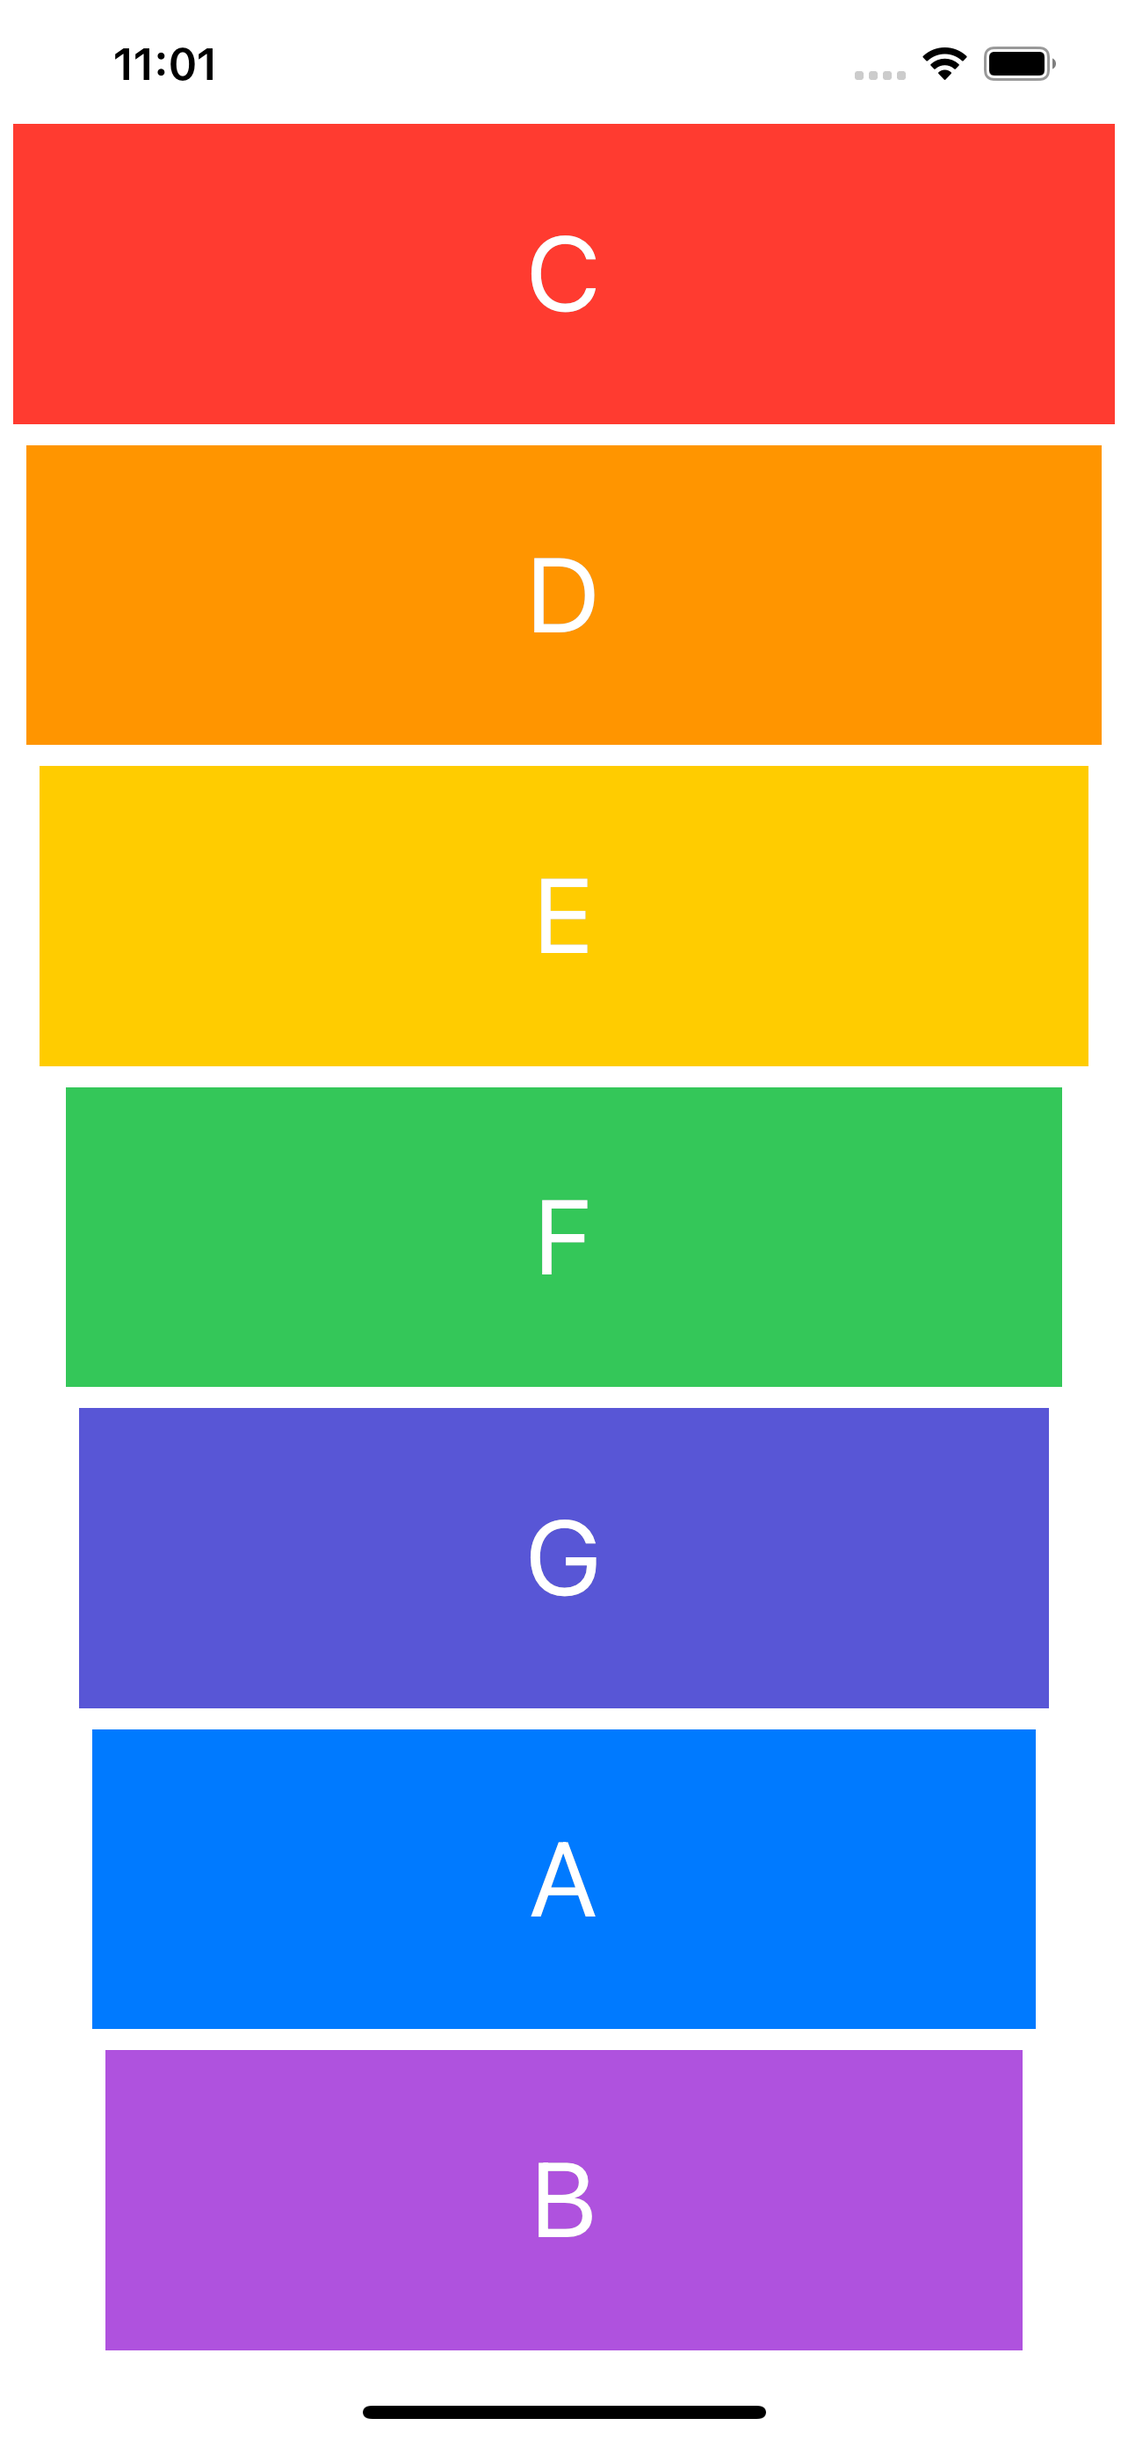
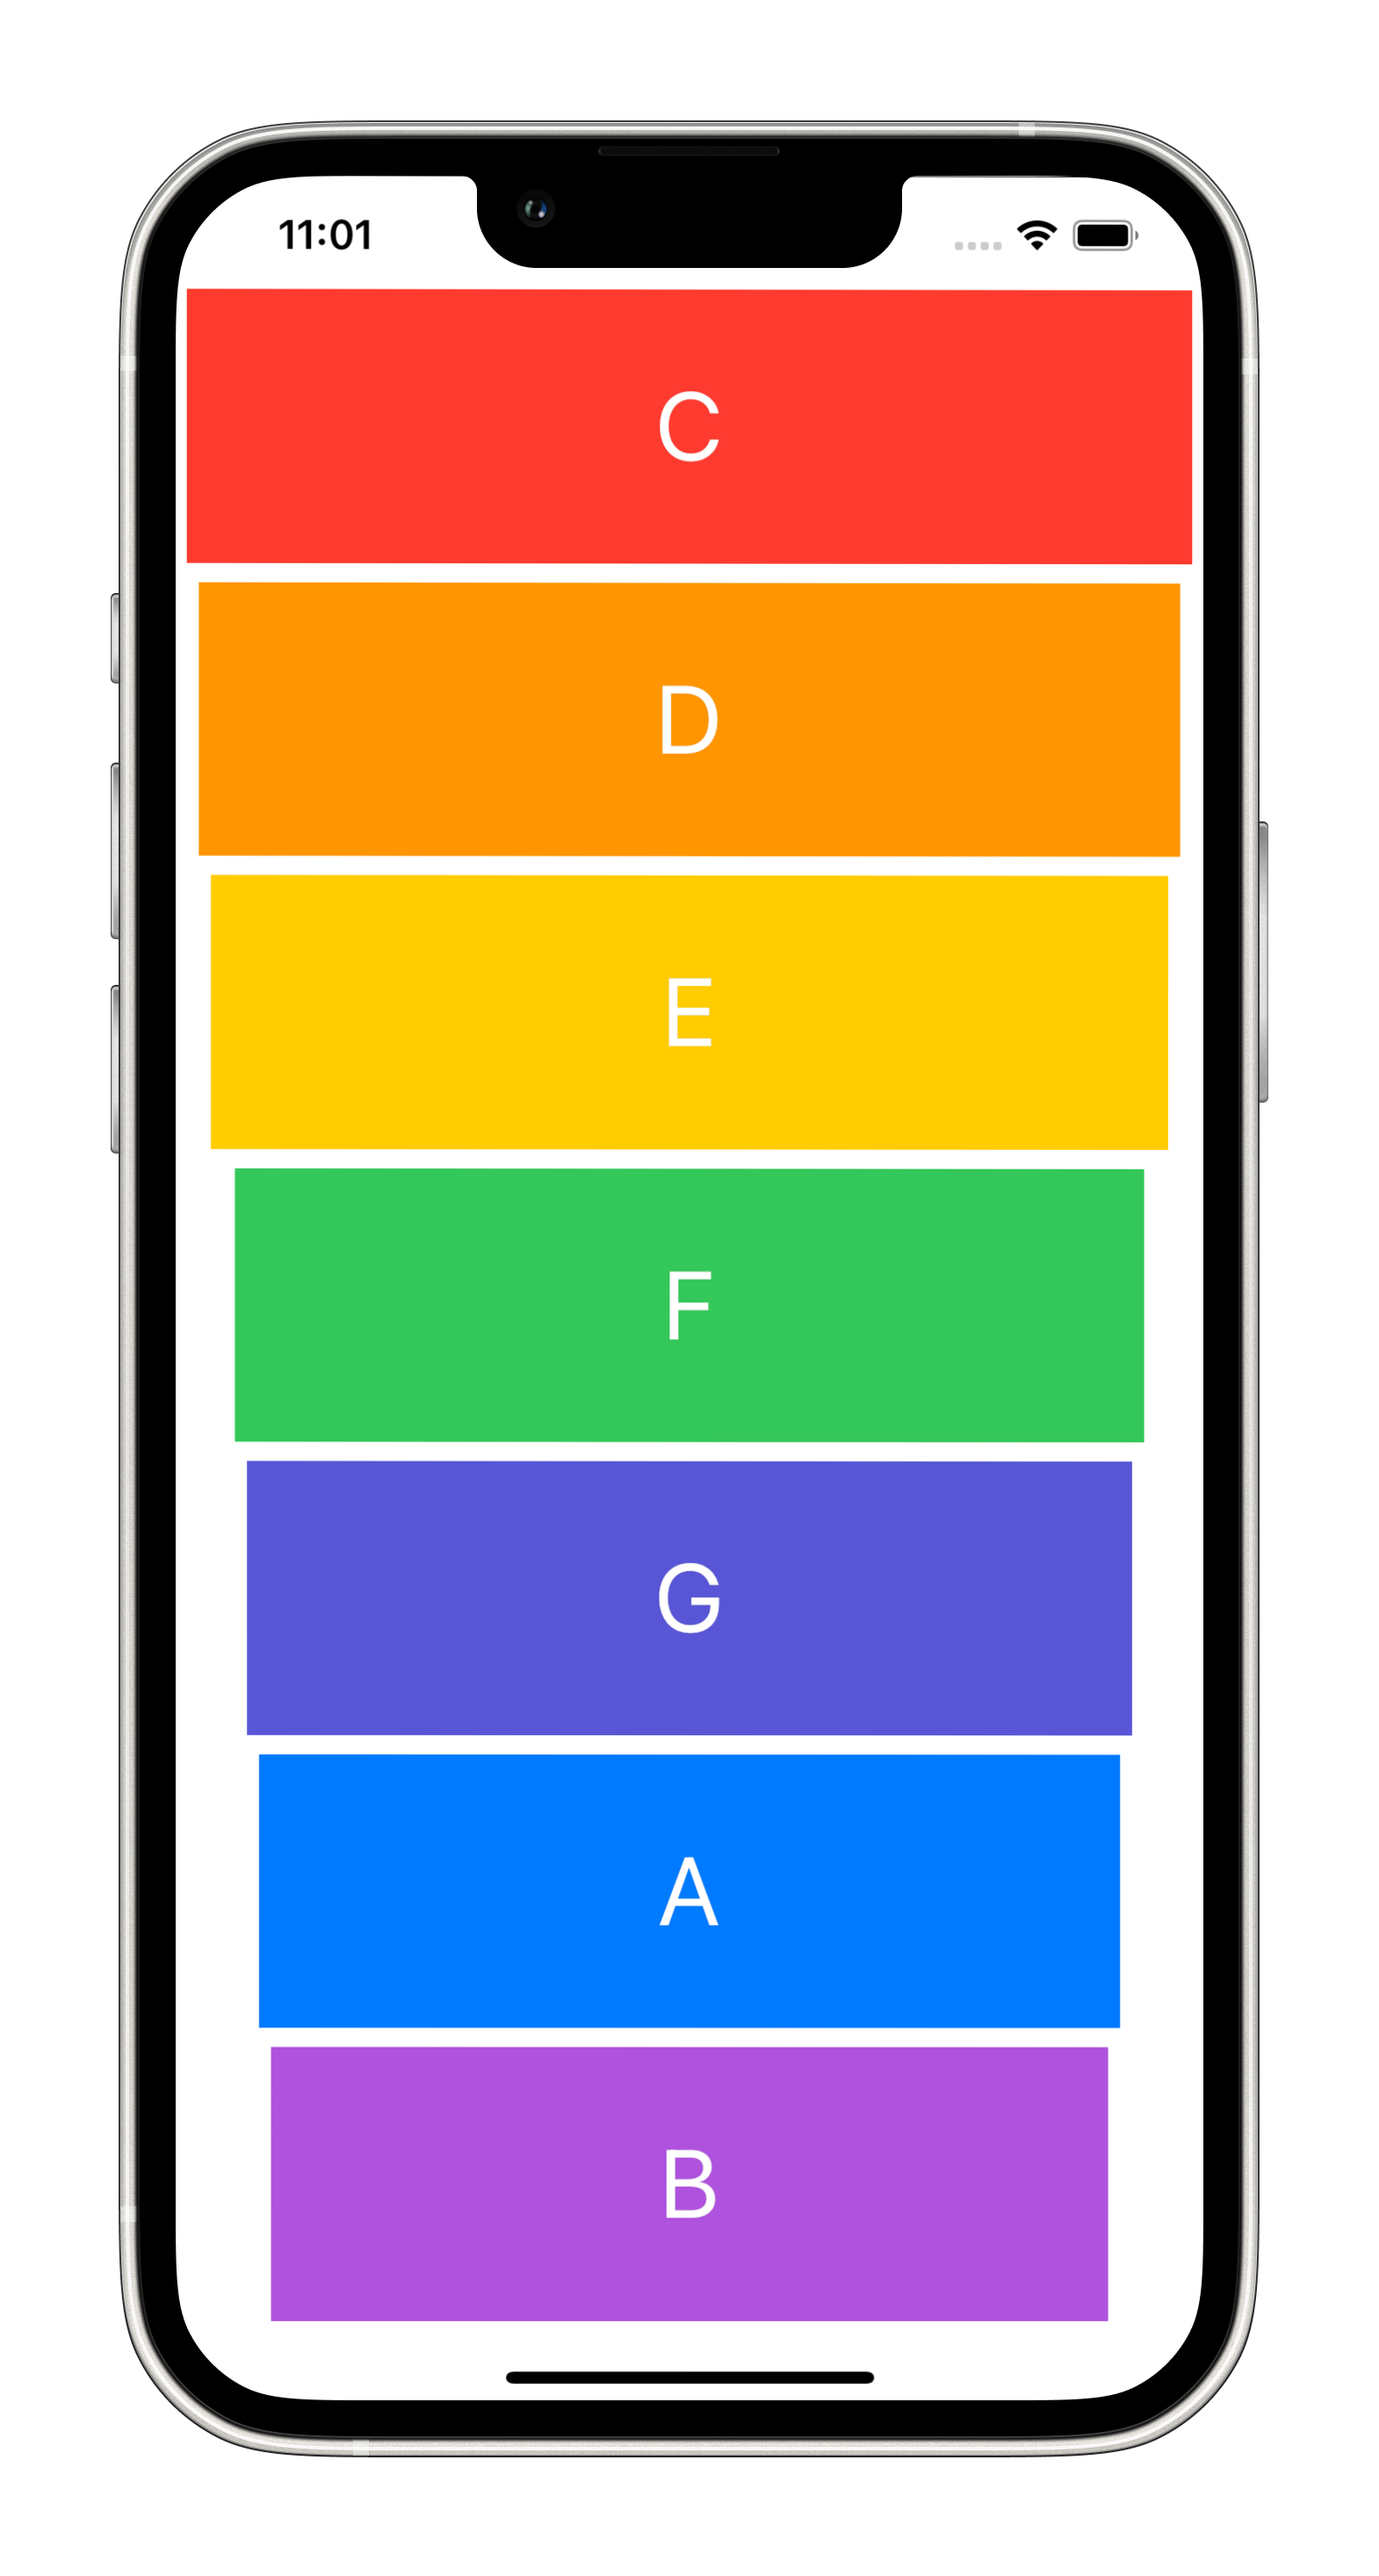
docs: update readme with additional information

diff --git a/README.md b/README.md
@@ -13,4 +13,9 @@
 * Code refactoring.
 * Basic debugging.
 
-![Screenshot](Documentation/Xilophone.png)
+
+<table>
+  <tr>
+    <td><img src="Documentation/Xilophone.png" width=270 height=480></td>
+    </tr>
+ </table>
